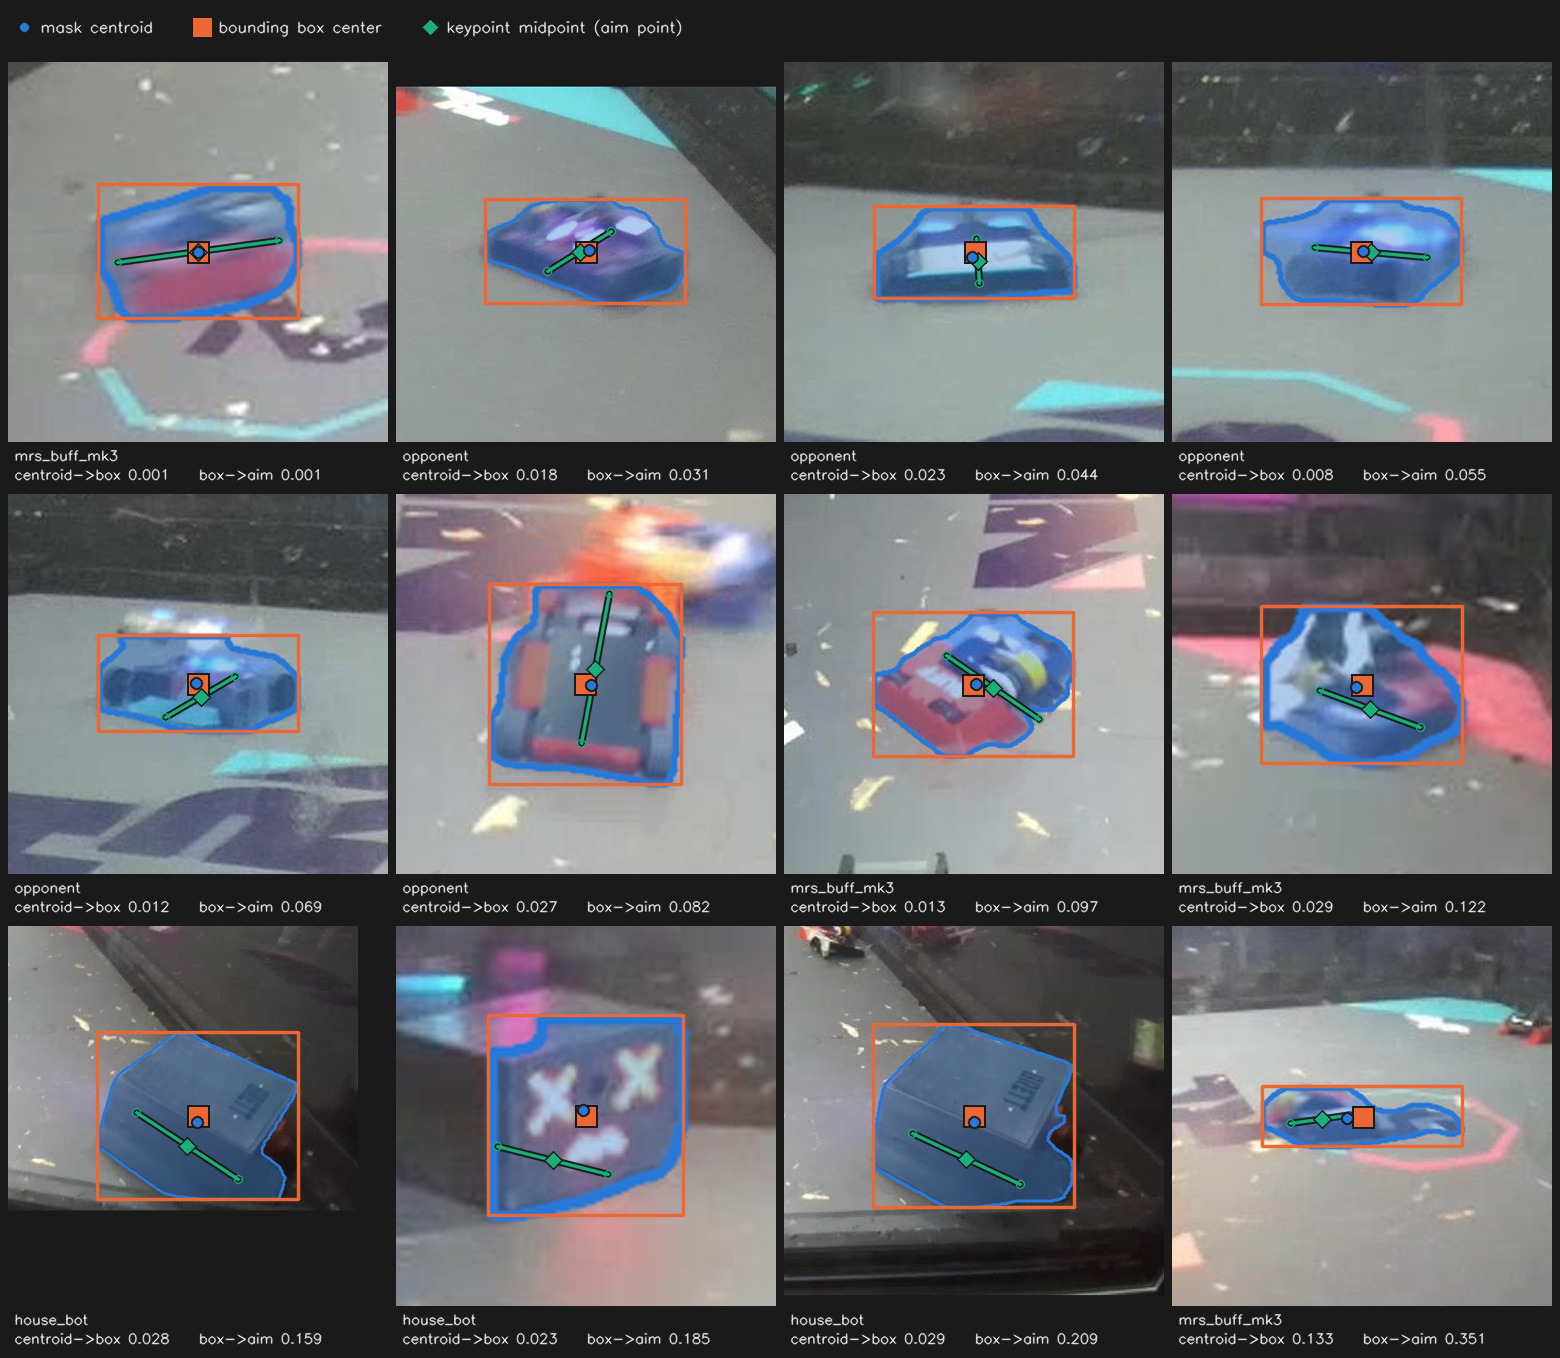
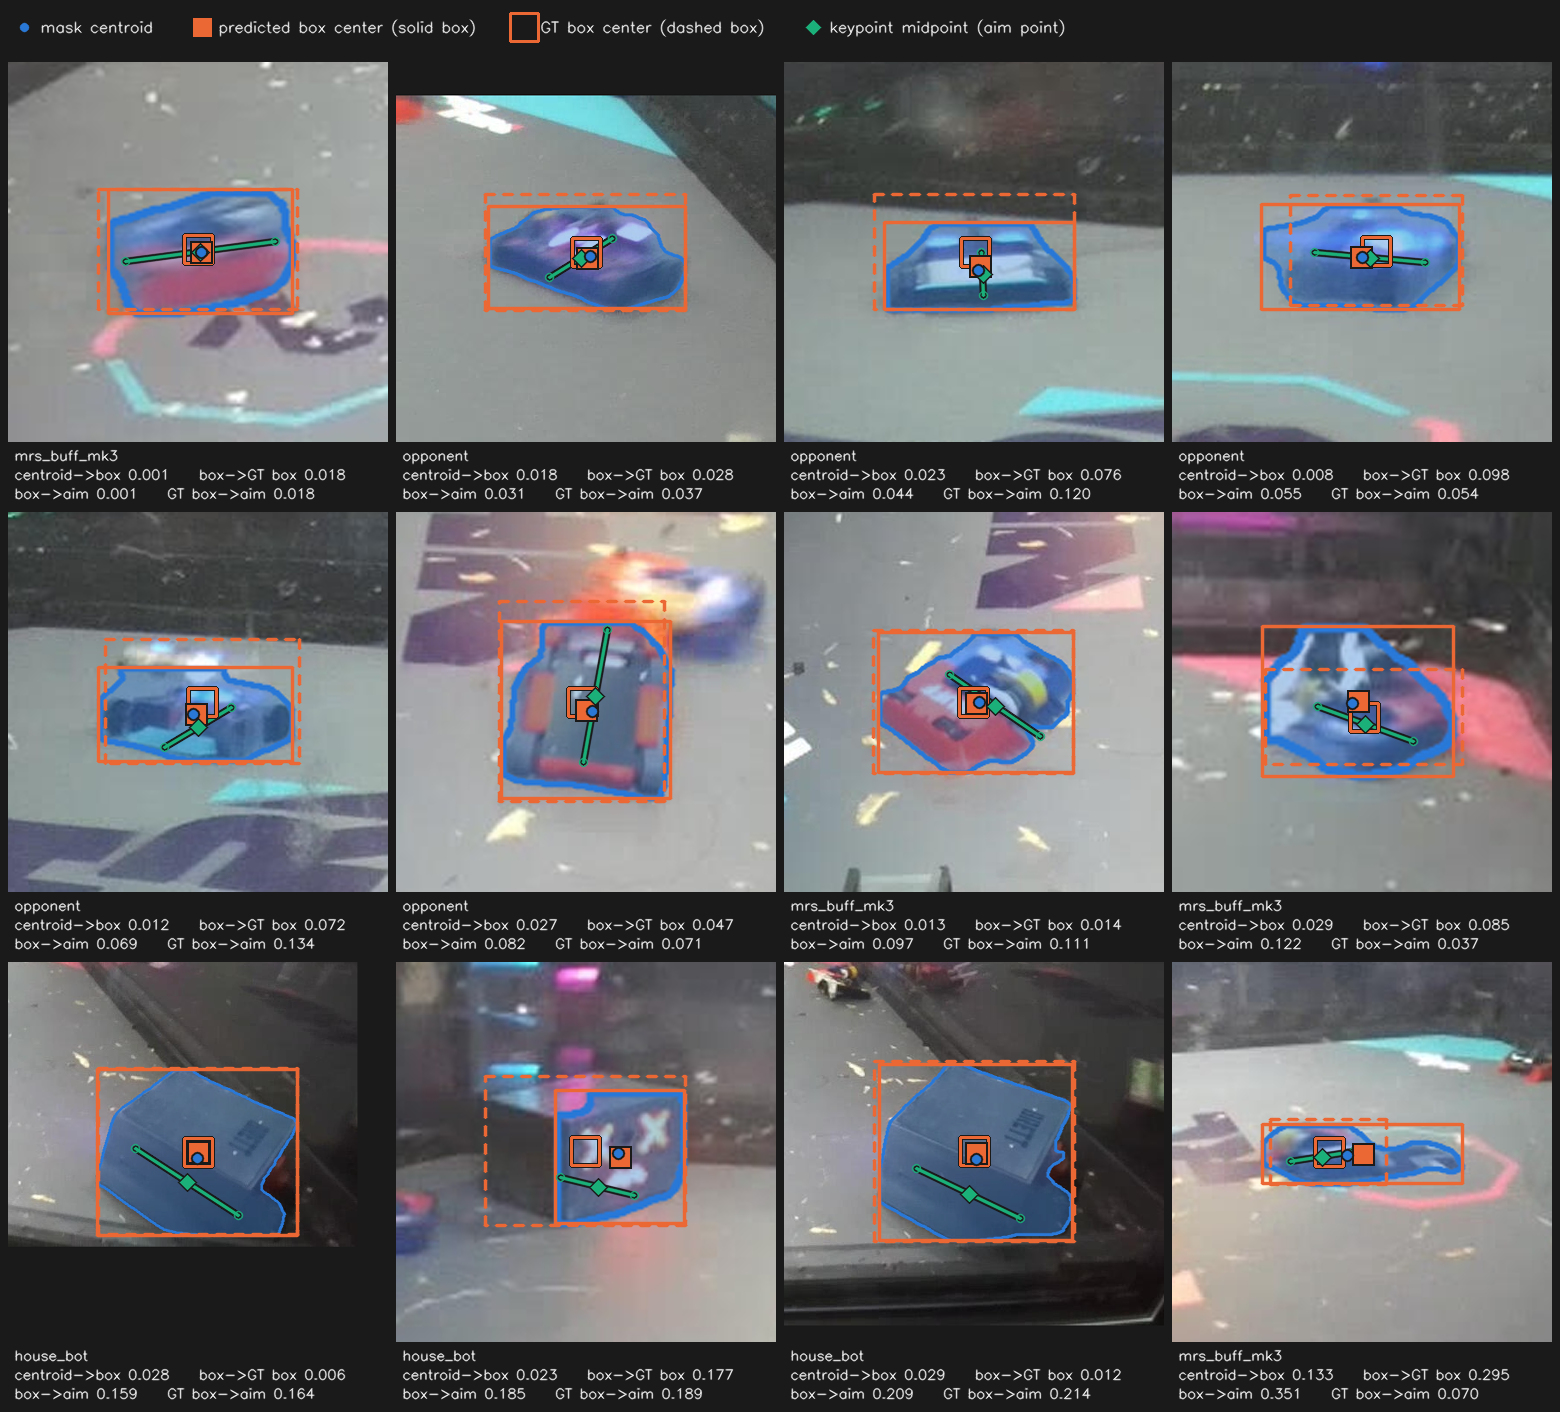
include comparison with gt box

diff --git a/training/model_eval/make_centroid_mosaic.py b/training/model_eval/make_centroid_mosaic.py
@@ -2,9 +2,10 @@
 """Render a grid of robot crops showing where each candidate position estimate lands.
 
 One tile per matched robot, cropped tight so the estimates are actually separable: the
-seg model's mask and box, the mask centroid, the box center, and the hand-labeled
-keypoint front/back midpoint. The figure for `mask_centroid_vs_box_2026-08-03.md`, where
-the numbers say the centroid and the box center coincide while both miss the aim point.
+seg model's mask and predicted box, the hand-labeled GT box, and the four candidate
+positions those produce (mask centroid, predicted box center, GT box center, keypoint
+front/back midpoint). The figure for `mask_centroid_vs_box_2026-08-03.md`, where the
+numbers say every box-derived position coincides while all of them miss the aim point.
 
 Tiles are picked to span the aim-point error rather than to flatter it: examples are
 drawn from across the distribution of box-center-to-midpoint distance, spread over
@@ -39,11 +40,15 @@ from score import BACK_IDX, FRONT_IDX, Taxonomy, load_gt
 TILE = 380
 PAD = 8
 LEGEND_H = 54
-CAPTION_H = 44
+CAPTION_H = 62
 FONT = cv2.FONT_HERSHEY_SIMPLEX
 
-# Categorical slots 1-3 of the validated default palette, as BGR. Each estimate also
-# carries a distinct marker shape, so identity never rests on color alone.
+# Categorical slots 1-3 of the validated default palette, as BGR. One hue per source of
+# the estimate, not per mark: blue is the mask, orange is a bounding box, aqua is the
+# hand-labeled keypoints. The predicted and ground-truth boxes share the orange because
+# they are the same kind of thing; solid vs dashed and filled vs hollow separate them,
+# which keeps the figure inside the three slots that validate on the all-pairs list.
+# Every estimate also carries a distinct marker shape, so identity is never color alone.
 CENTROID_BGR = (214, 120, 42)  # #2a78d6 blue
 BOXCENTER_BGR = (52, 104, 235)  # #eb6834 orange
 AIMPOINT_BGR = (122, 175, 27)  # #1baf7a aqua
@@ -67,6 +72,11 @@ def draw_marker(tile: np.ndarray, point: np.ndarray, color, shape: str) -> None:
     if shape == "square":
         cv2.rectangle(tile, (x - 11, y - 11), (x + 11, y + 11), SURFACE, -1)
         cv2.rectangle(tile, (x - 9, y - 9), (x + 9, y + 9), color, -1)
+    elif shape == "hollow_square":
+        # Wider than the filled square so it still reads as a ring when the two coincide,
+        # which is the common case.
+        cv2.rectangle(tile, (x - 14, y - 14), (x + 14, y + 14), SURFACE, 4)
+        cv2.rectangle(tile, (x - 14, y - 14), (x + 14, y + 14), color, 2)
     elif shape == "diamond":
         for size, fill in ((9, SURFACE), (7, color)):
             pts = np.array([[x, y - size], [x + size, y], [x, y + size], [x - size, y]])
@@ -76,18 +86,58 @@ def draw_marker(tile: np.ndarray, point: np.ndarray, color, shape: str) -> None:
         cv2.circle(tile, (x, y), 4, color, -1, cv2.LINE_AA)
 
 
+def draw_dashed_rect(
+    tile: np.ndarray, p1: np.ndarray, p2: np.ndarray, color, dash: int = 9
+) -> None:
+    """Dashed rectangle, marking the hand-labeled box against the solid predicted one."""
+    x1, y1 = int(p1[0]), int(p1[1])
+    x2, y2 = int(p2[0]), int(p2[1])
+    for a, b in (
+        ((x1, y1), (x2, y1)),
+        ((x2, y1), (x2, y2)),
+        ((x2, y2), (x1, y2)),
+        ((x1, y2), (x1, y1)),
+    ):
+        length = int(np.hypot(b[0] - a[0], b[1] - a[1]))
+        if length == 0:
+            continue
+        for start in range(0, length, dash * 2):
+            end = min(start + dash, length)
+            sa = (
+                int(a[0] + (b[0] - a[0]) * start / length),
+                int(a[1] + (b[1] - a[1]) * start / length),
+            )
+            sb = (
+                int(a[0] + (b[0] - a[0]) * end / length),
+                int(a[1] + (b[1] - a[1]) * end / length),
+            )
+            cv2.line(tile, sa, sb, color, 2, cv2.LINE_AA)
+
+
 def draw_tile(
     image: np.ndarray,
     box: np.ndarray,
+    gt_box: np.ndarray,
     mask: np.ndarray | None,
     centroid: np.ndarray,
     center: np.ndarray,
+    gt_center: np.ndarray,
     keypoints: np.ndarray,
     midpoint: np.ndarray,
 ) -> np.ndarray:
-    """Crop around one robot and overlay the mask, box and the three position estimates."""
-    side = max(box[2] - box[0], box[3] - box[1]) * CROP_MARGIN
-    cx, cy = (box[0] + box[2]) / 2, (box[1] + box[3]) / 2
+    """Crop around one robot and overlay the mask, both boxes and the four position estimates."""
+    # Frame the union of the predicted and GT boxes, so a badly localized detection does
+    # not push its GT box out of the crop.
+    union = np.array(
+        [
+            min(box[0], gt_box[0]),
+            min(box[1], gt_box[1]),
+            max(box[2], gt_box[2]),
+            max(box[3], gt_box[3]),
+        ]
+    )
+    side = max(union[2] - union[0], union[3] - union[1]) * CROP_MARGIN
+    cx, cy = (union[0] + union[2]) / 2, (union[1] + union[3]) / 2
     x1 = int(round(cx - side / 2))
     y1 = int(round(cy - side / 2))
     size = int(round(side))
@@ -126,6 +176,7 @@ def draw_tile(
         2,
         cv2.LINE_AA,
     )
+    draw_dashed_rect(tile, to_tile(gt_box[:2]), to_tile(gt_box[2:]), BOXCENTER_BGR)
 
     if len(keypoints) > max(FRONT_IDX, BACK_IDX):
         front = to_tile(keypoints[FRONT_IDX, :2])
@@ -142,7 +193,8 @@ def draw_tile(
         for point in (front, back):
             cv2.circle(tile, (int(point[0]), int(point[1])), 4, AIMPOINT_BGR, 1, cv2.LINE_AA)
 
-    # Largest first: a coincident centroid stays visible on top of the box center.
+    # Largest first: a coincident centroid stays visible on top of the box centers.
+    draw_marker(tile, to_tile(gt_center), BOXCENTER_BGR, "hollow_square")
     draw_marker(tile, to_tile(center), BOXCENTER_BGR, "square")
     draw_marker(tile, to_tile(midpoint), AIMPOINT_BGR, "diamond")
     draw_marker(tile, to_tile(centroid), CENTROID_BGR, "circle")
@@ -165,7 +217,8 @@ def legend_strip(width: int) -> np.ndarray:
     strip = np.full((LEGEND_H, width, 3), SURFACE, dtype=np.uint8)
     entries = [
         ("mask centroid", CENTROID_BGR, "circle"),
-        ("bounding box center", BOXCENTER_BGR, "square"),
+        ("predicted box center (solid box)", BOXCENTER_BGR, "square"),
+        ("GT box center (dashed box)", BOXCENTER_BGR, "hollow_square"),
         ("keypoint midpoint (aim point)", AIMPOINT_BGR, "diamond"),
     ]
     x = 16
@@ -219,6 +272,7 @@ def gather(args: argparse.Namespace) -> list[dict]:
         gt_kps = [gt_kps_all[i] for i in gt_idx]
         gt_mids = keypoint_midpoints(gt_kps)
         gt_sides = longer_sides(gt_boxes)
+        gt_centers = box_centers(gt_boxes)
 
         boxes, scores, labels, masks = detect(
             seg_model, image, seg_labels, taxonomy, args, want_masks=True
@@ -237,6 +291,7 @@ def gather(args: argparse.Namespace) -> list[dict]:
             if not np.isfinite(mx):
                 continue
             centroid = np.array([mx, my])
+            gt_center = gt_centers[g]
             candidates.append(
                 {
                     "stamp": stamp,
@@ -244,14 +299,18 @@ def gather(args: argparse.Namespace) -> list[dict]:
                     "image_path": images[stamp],
                     "label": gt_labels[g],
                     "box": boxes[p],
+                    "gt_box": gt_boxes[g],
                     "mask": masks[p],
                     "centroid": centroid,
                     "center": centers[p],
+                    "gt_center": gt_center,
                     "keypoints": gt_kps[g],
                     "midpoint": gt_mids[g],
                     "side": gt_sides[g],
                     "centroid_to_center": float(np.hypot(*(centroid - centers[p]))) / gt_sides[g],
                     "center_to_aim": float(np.hypot(*(centers[p] - gt_mids[g]))) / gt_sides[g],
+                    "gt_center_to_aim": float(np.hypot(*(gt_center - gt_mids[g]))) / gt_sides[g],
+                    "center_to_gt_center": float(np.hypot(*(centers[p] - gt_center))) / gt_sides[g],
                 }
             )
     return candidates
@@ -309,9 +368,11 @@ def build(chosen: list[dict], cols: int) -> np.ndarray:
         tile = draw_tile(
             image,
             item["box"],
+            item["gt_box"],
             item["mask"],
             item["centroid"],
             item["center"],
+            item["gt_center"],
             item["keypoints"],
             item["midpoint"],
         )
@@ -321,7 +382,9 @@ def build(chosen: list[dict], cols: int) -> np.ndarray:
                 [
                     item["label"],
                     f"centroid->box {item['centroid_to_center']:.3f}"
-                    f"    box->aim {item['center_to_aim']:.3f}",
+                    f"    box->GT box {item['center_to_gt_center']:.3f}",
+                    f"box->aim {item['center_to_aim']:.3f}"
+                    f"    GT box->aim {item['gt_center_to_aim']:.3f}",
                 ],
             )
         )

diff --git a/docs/experiments/perception_performance/mask_centroid_vs_box_2026-08-03.md b/docs/experiments/perception_performance/mask_centroid_vs_box_2026-08-03.md
@@ -38,9 +38,11 @@ mask head away.
 6. **The bbox model is the better detector anyway.** Agnostic F1 0.893 vs 0.819, recall 0.847 vs
    0.756, precision 0.944 vs 0.894, mAP50-95 0.560 vs 0.517.
 
-Twelve matched robots, ordered by how far the box center sits from the aim point, from the closest
-case in the set to the 99th percentile. The blue circle sits inside the orange square in every tile;
-the green diamond walks away.
+Twelve matched robots, ordered by how far the predicted box center sits from the aim point, from the
+closest case in the set to the 99th percentile. Solid box and filled square are the seg model's
+prediction, dashed box and hollow square the hand-drawn label. The blue circle stays inside the
+orange square in every tile, the hollow GT square rings it whenever localization is good, and the
+green diamond walks away regardless of which box you started from.
 
 ![example crops with all three position estimates](assets/2026-08-03_mask_centroid/examples_mosaic.png)
 
@@ -116,9 +118,12 @@ Per class, and by box size:
 The normalized offset is flat across box sizes. The pixel offset grows with the box because it is
 a fixed fraction of it, not because big detections are worse.
 
-## Result 2: which position estimate is closest to ground truth
+## Result 2: which position estimate is closest to the GT box
 
-Distance from each estimate to the GT box center, over class-blind IoU≥0.5 matches.
+The reference here is the hand-drawn GT box, so the "seg box center" and "bbox-only model" rows are
+each a predicted box measured against the labeled box: this table is the localization error of the
+two detectors, with the mask centroid as a third contender. Distance from each estimate to the GT
+box center, over class-blind IoU≥0.5 matches.
 
 | estimate | n matched | mean (px) | median (px) | mean (norm) | median (norm) |
 |---|---|---|---|---|---|
@@ -142,9 +147,10 @@ advantage. Result 3 grades the same estimates against a reference that has no su
 
 ## Result 3: distance to the keypoint midpoint, the aim point
 
-The front/back keypoint midpoint is where the aim controller wants to put the crosshair. Grading
-every estimate against it adds a fourth row, the GT box center itself, which carries zero detection
-error and shows what a box can do at best.
+The front/back keypoint midpoint is where the aim controller wants to put the crosshair. It is the
+only reference here that is independent of boxes, so it is the one that can rank a predicted box and
+the GT box on the same scale. That adds a fourth row, the GT box center itself, which carries zero
+detection error and shows what a box can do at best.
 
 | estimate | n | mean (px) | median (px) | mean (norm) | median (norm) | p90 (norm) |
 |---|---|---|---|---|---|---|
